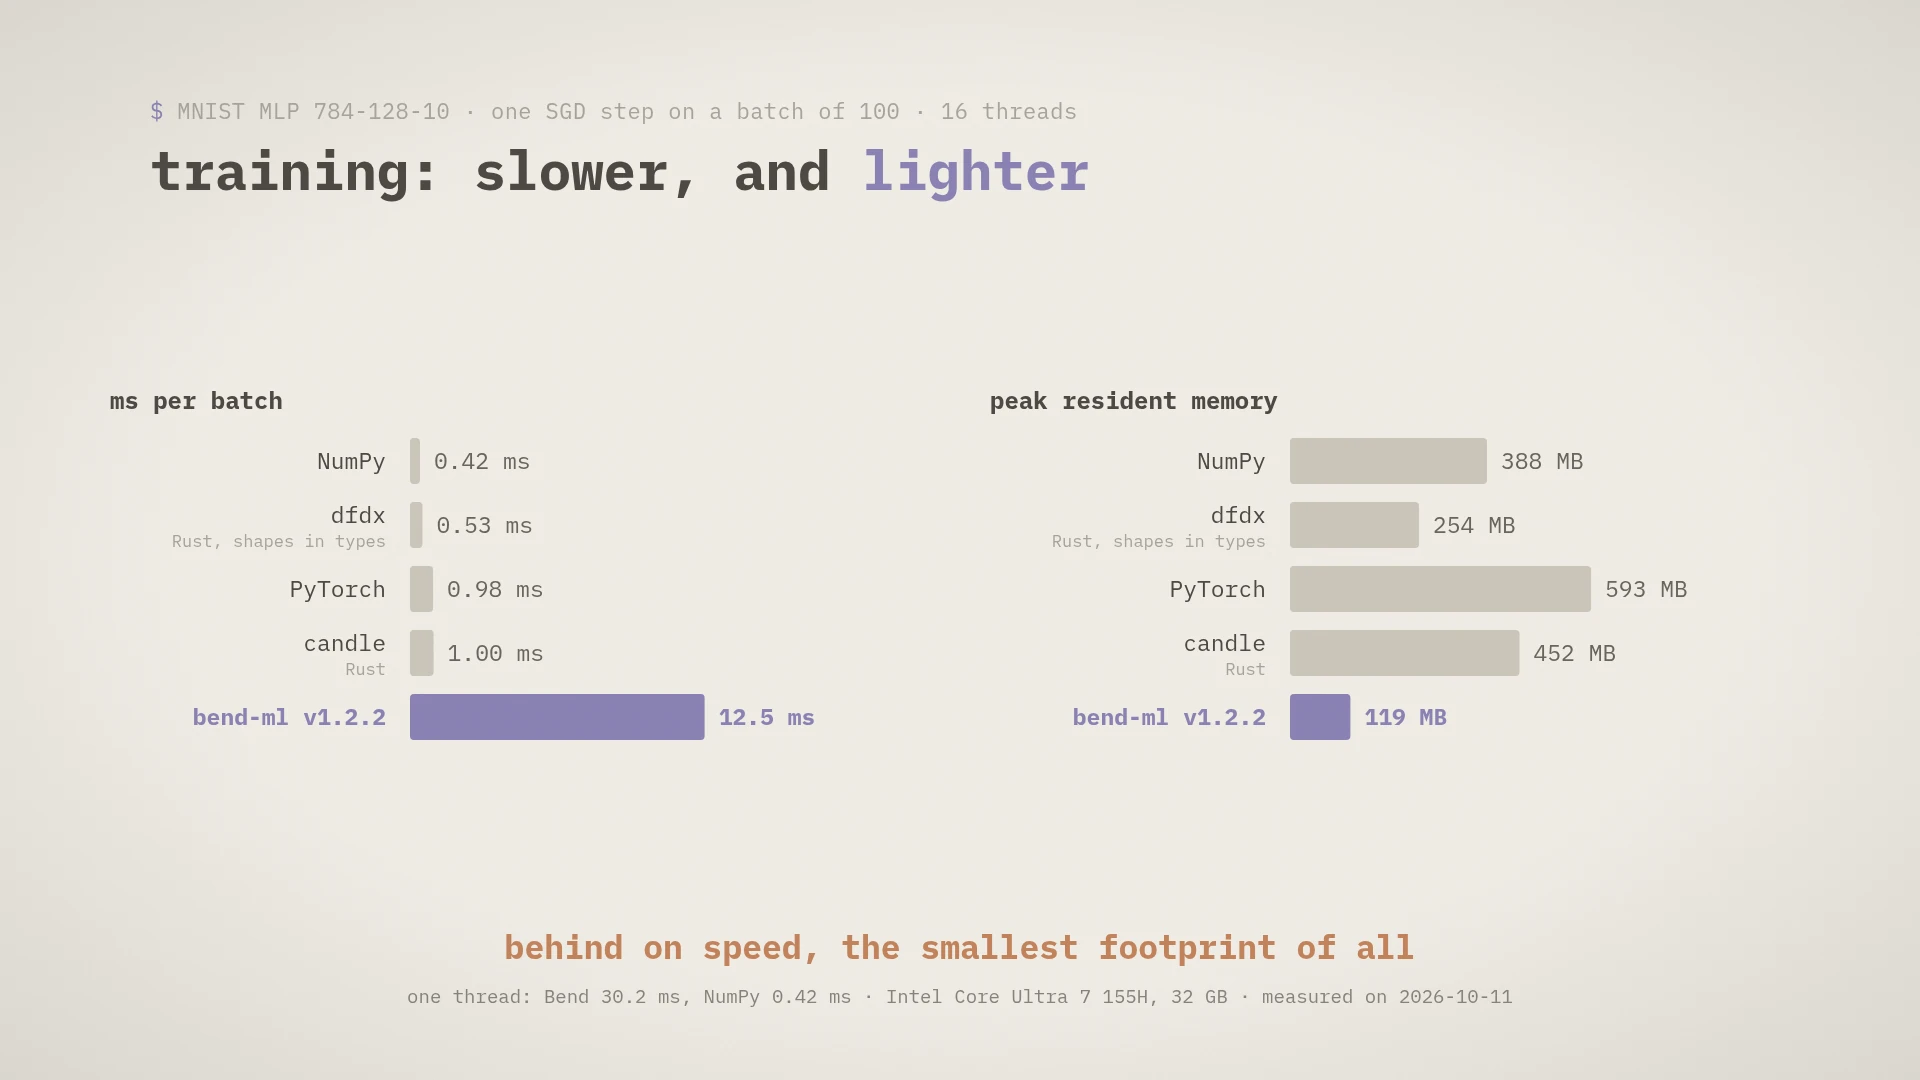
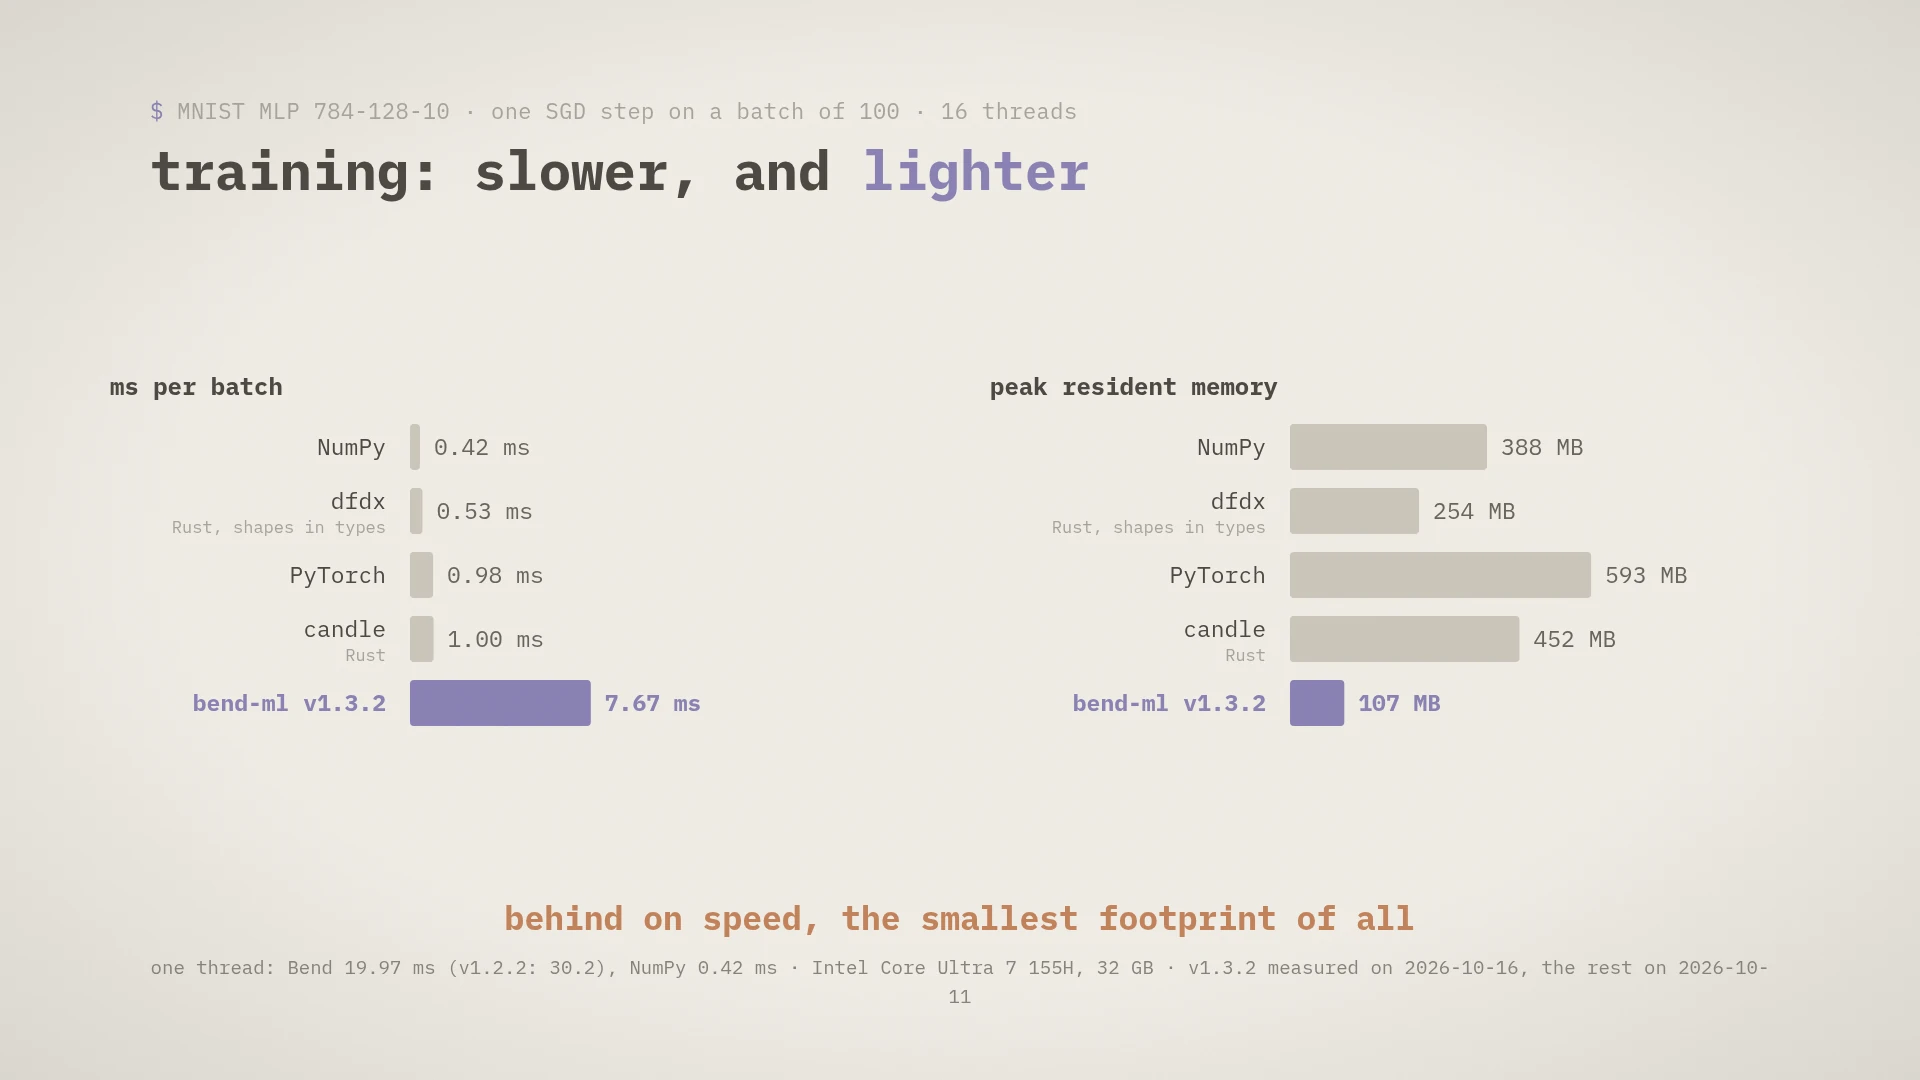
media: the README's figures with v1.3.2, measured on 2026-10-16 next to v1.2.2, PyTorch and NumPy

diff --git a/docs/media/deck/frames/index.html b/docs/media/deck/frames/index.html
@@ -1,6 +1,6 @@
-<!doctype html><meta charset="utf-8"><title>bend-ml v1.2.2 · evidence of 2026-10-11</title>
+<!doctype html><meta charset="utf-8"><title>bend-ml v1.3.2 · evidence of 2026-10-11 and 2026-10-16</title>
 <style>body{background:#e9e4db;margin:0;padding:40px 0;font-family:ui-monospace,monospace;color:#69665f}img{display:block;width:min(1600px,96vw);margin:0 auto 40px;border-radius:12px;box-shadow:0 2px 12px rgba(0,0,0,.12)}h1{text-align:center;font-size:20px;font-weight:400}</style>
-<h1>bend-ml v1.2.2 · evidence of 2026-10-11</h1><img src="01-title.webp" alt="01-title.webp">
+<h1>bend-ml v1.3.2 · evidence of 2026-10-11 and 2026-10-16</h1><img src="01-title.webp" alt="01-title.webp">
 <img src="02-same-work.webp" alt="02-same-work.webp">
 <img src="03-history.webp" alt="03-history.webp">
 <img src="04-vs-references.webp" alt="04-vs-references.webp">
